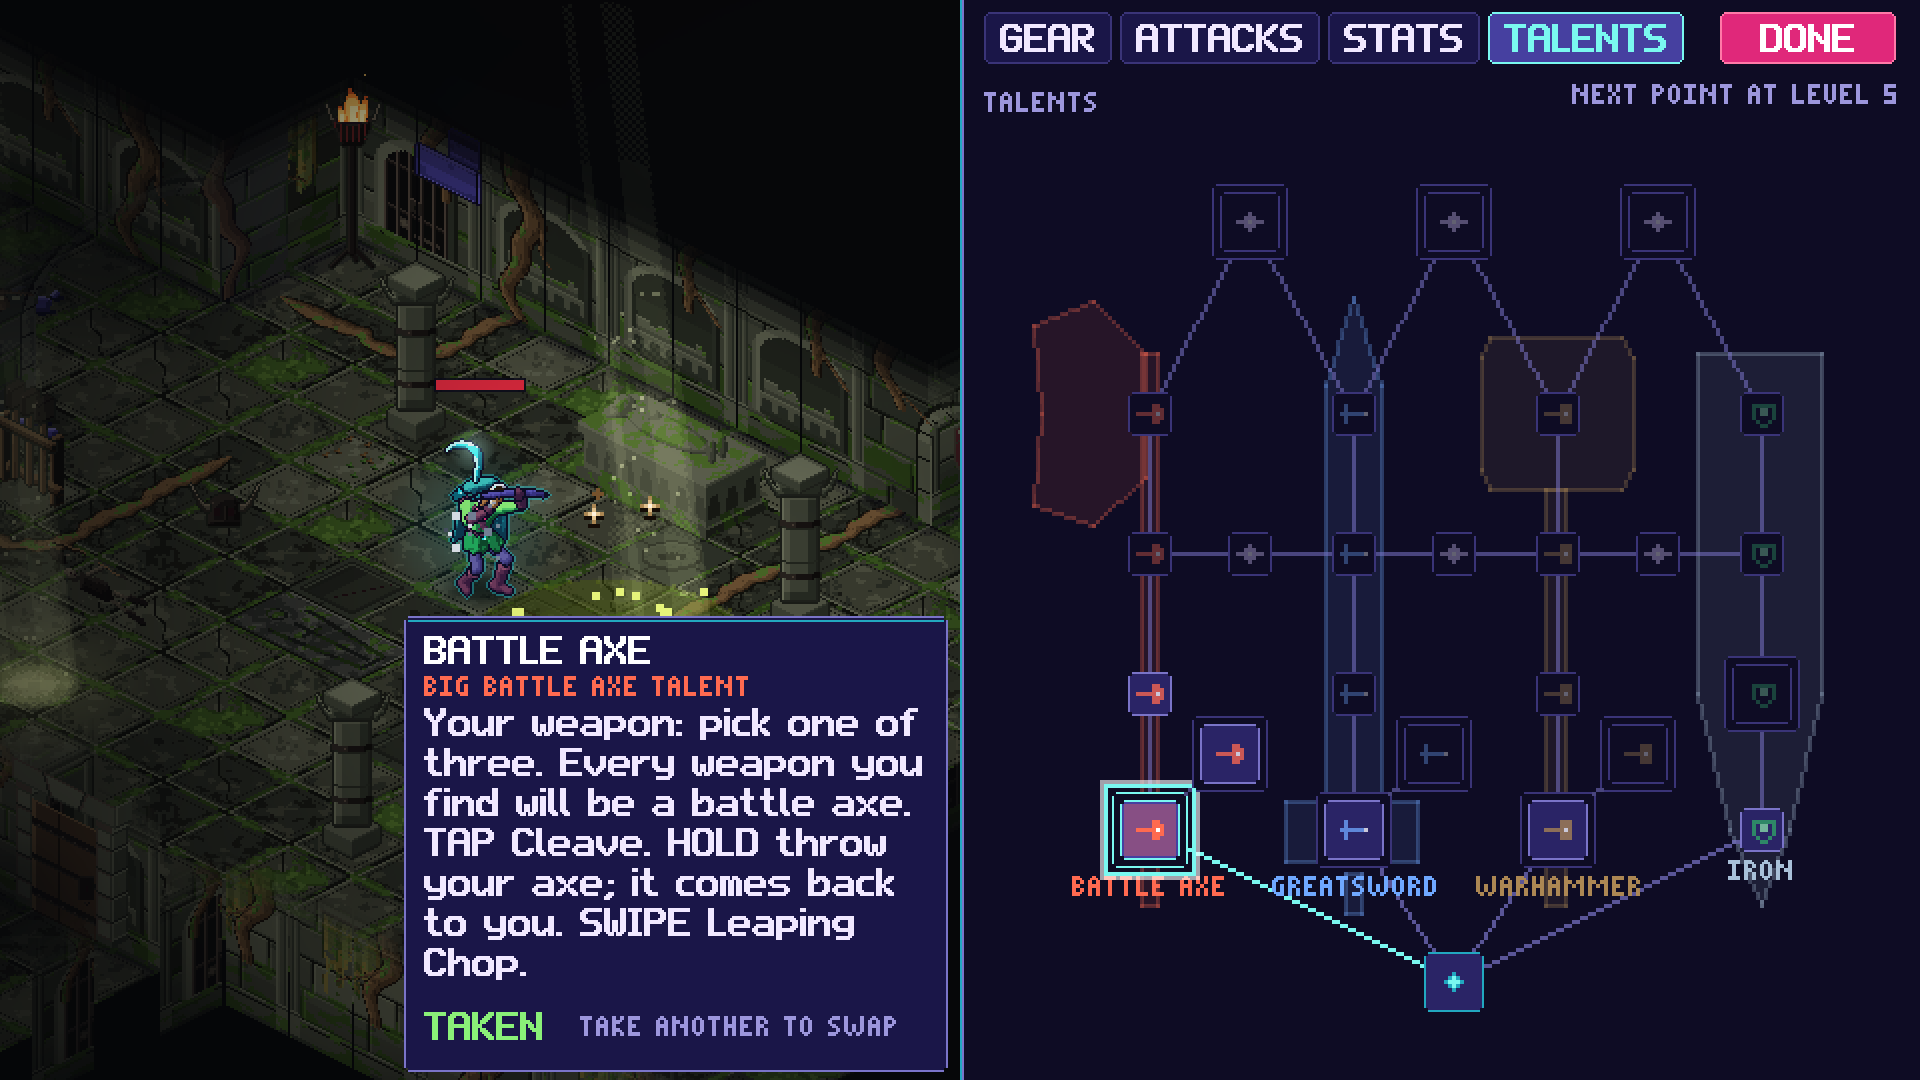
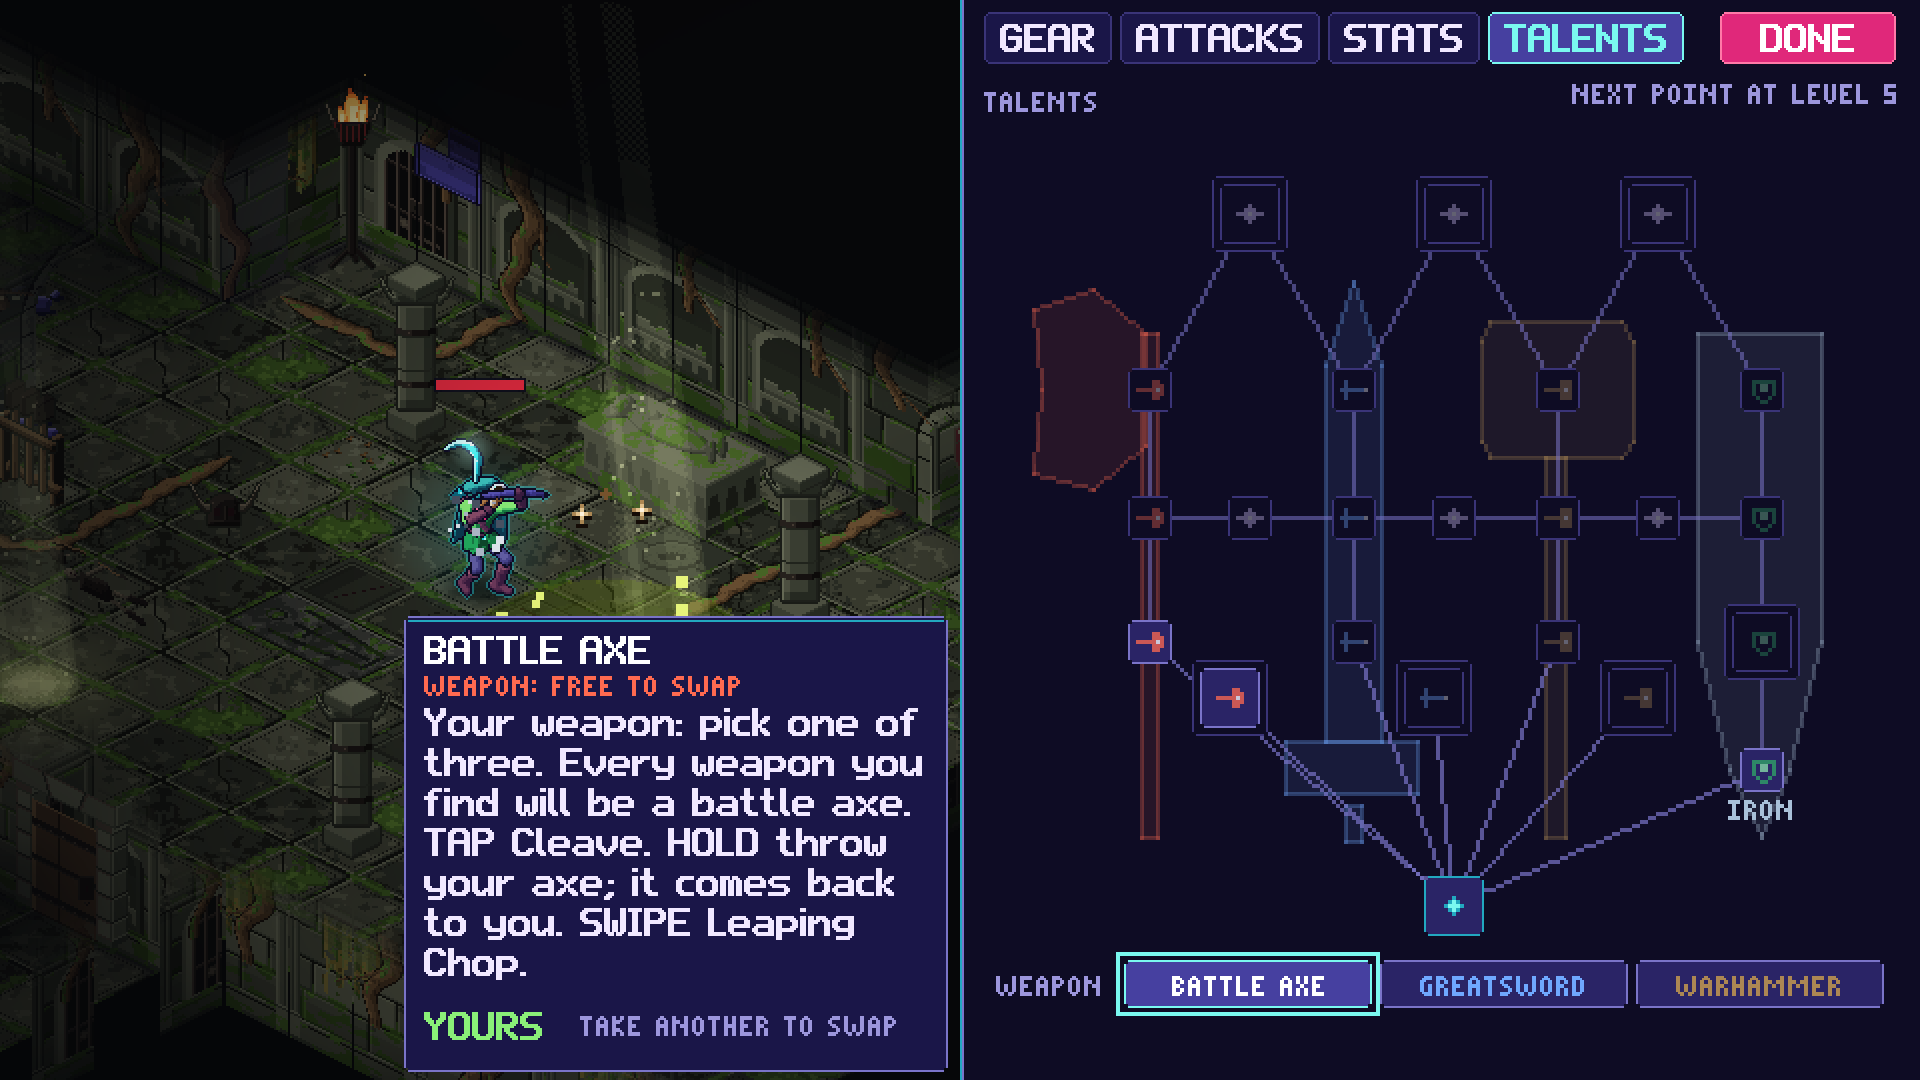
Godot: the Warrior's weapon a pre-point, a row of its own under his tree, not a talent
His words: "No I mean I don't like the trees starting with a weapon swap.  I want the swap to be available but not be
part of the talent tree pathing.  Like it's a pre-point, something that can be allocated in the talent tree area but
before you get into an actual branch". The three weapons are no longer stones of the tree: a WEAPON row under it on
the TALENTS page (talents_page.gd), the one he holds lit, pressed for its card (WEAPON: FREE TO SWAP; SWAP TO IT (NO
POINT)). Each path begins at its own first talents, drawn from where the tree begins, only his weapon's open. The
weapon costs no point (talents.gd spent): his ten go on the tree's own, the first at level 5. Talents 82/82.

Claude-Session: https://claude.ai/code/session_01JYSqoVEeoMVs56KGNxXie3

diff --git a/godot/README.md b/godot/README.md
@@ -1284,15 +1284,16 @@ warrior has an issue where he starts with the greatsword but would have to pay a
 he can swap to axe or hammer at level 1.”, “And make sure the words, talents, and uniques all work together correctly to
 augment attacks.  I want things to compound as they are added to attacks or abilities.”
 
-- **The Warrior's weapon, his first point given early** (`talents.gd` is_weapon, spent, next_point, starting, swap_out;
-  `inventory.gd`, `talents_page.gd`, `hud.gd`): first made free, then, at his word the morning after (“And I don't like that
-  warrior starts with a talent point.  How can we allow the switch at level 1 without just giving the player a free talent
-  point?”), his first point as the game has it, but his from level 1: the greatsword his as he starts; the battle axe or the
-  warhammer taken in its place at any level, anywhere, for nothing more (SWAP TO IT (FREE) on its card), so long as nothing
-  more on the old one's path is taken (“Undo the greatsword's talents first”); a weapon is never undone, only swapped (“Take
-  another to swap”). It counts among his points: the point level 5 brings is the one his weapon took, so his next to spend comes
-  at level 10 (NEXT POINT AT LEVEL 10 over his tree), and over the game he has ten, as every hero has, one of them his weapon.
-  `--only=talents`: 82 checks (a new Warrior at level 1 swapping to the axe and back).
+- **The Warrior's weapon, a pre-point** (`talents.gd` is_weapon, spent, pre_point, next_point, starting, swap_out;
+  `talents_page.gd` lay_out, draw: the WEAPON row; `inventory.gd`, `hud.gd`): at his words the morning after (“No I mean I don't
+  like the trees starting with a weapon swap.  I want the swap to be available but not be part of the talent tree pathing.  Like
+  it's a pre-point, something that can be allocated in the talent tree area but before you get into an actual branch”), his
+  weapon is no stone of his tree: a row of its own under the tree on the TALENTS page, WEAPON, then the battle axe, the
+  greatsword and the warhammer, the one he holds lit; pressed, its card (WEAPON: FREE TO SWAP; SWAP TO IT (NO POINT), or YOURS).
+  The greatsword his as he starts; another in its place at any level, anywhere, so long as nothing more on the old one's path is
+  taken (“Undo the greatsword's talents first”). It costs no point: his ten go on the tree's own, the first at level 5, as every
+  hero's. The tree begins at each path's own first talents, drawn from where the tree begins; only his weapon's open.
+  `--only=talents`: 82 checks (a new Warrior at level 1 swapping to the axe and back, the row under the tree).
 - **What he adds compounds** (`hero.gd` side, word_k, talent_hit; `words.gd` resolve `word_k`): a blow of one of his moves
   was made of everything already, each a multiplier on the rest. What else he sets off now is too: a talent's arc or its
   burning ground, a unique's own blow, a companion's bite, the Golem's coil, the ground a word behind leaves, the last
